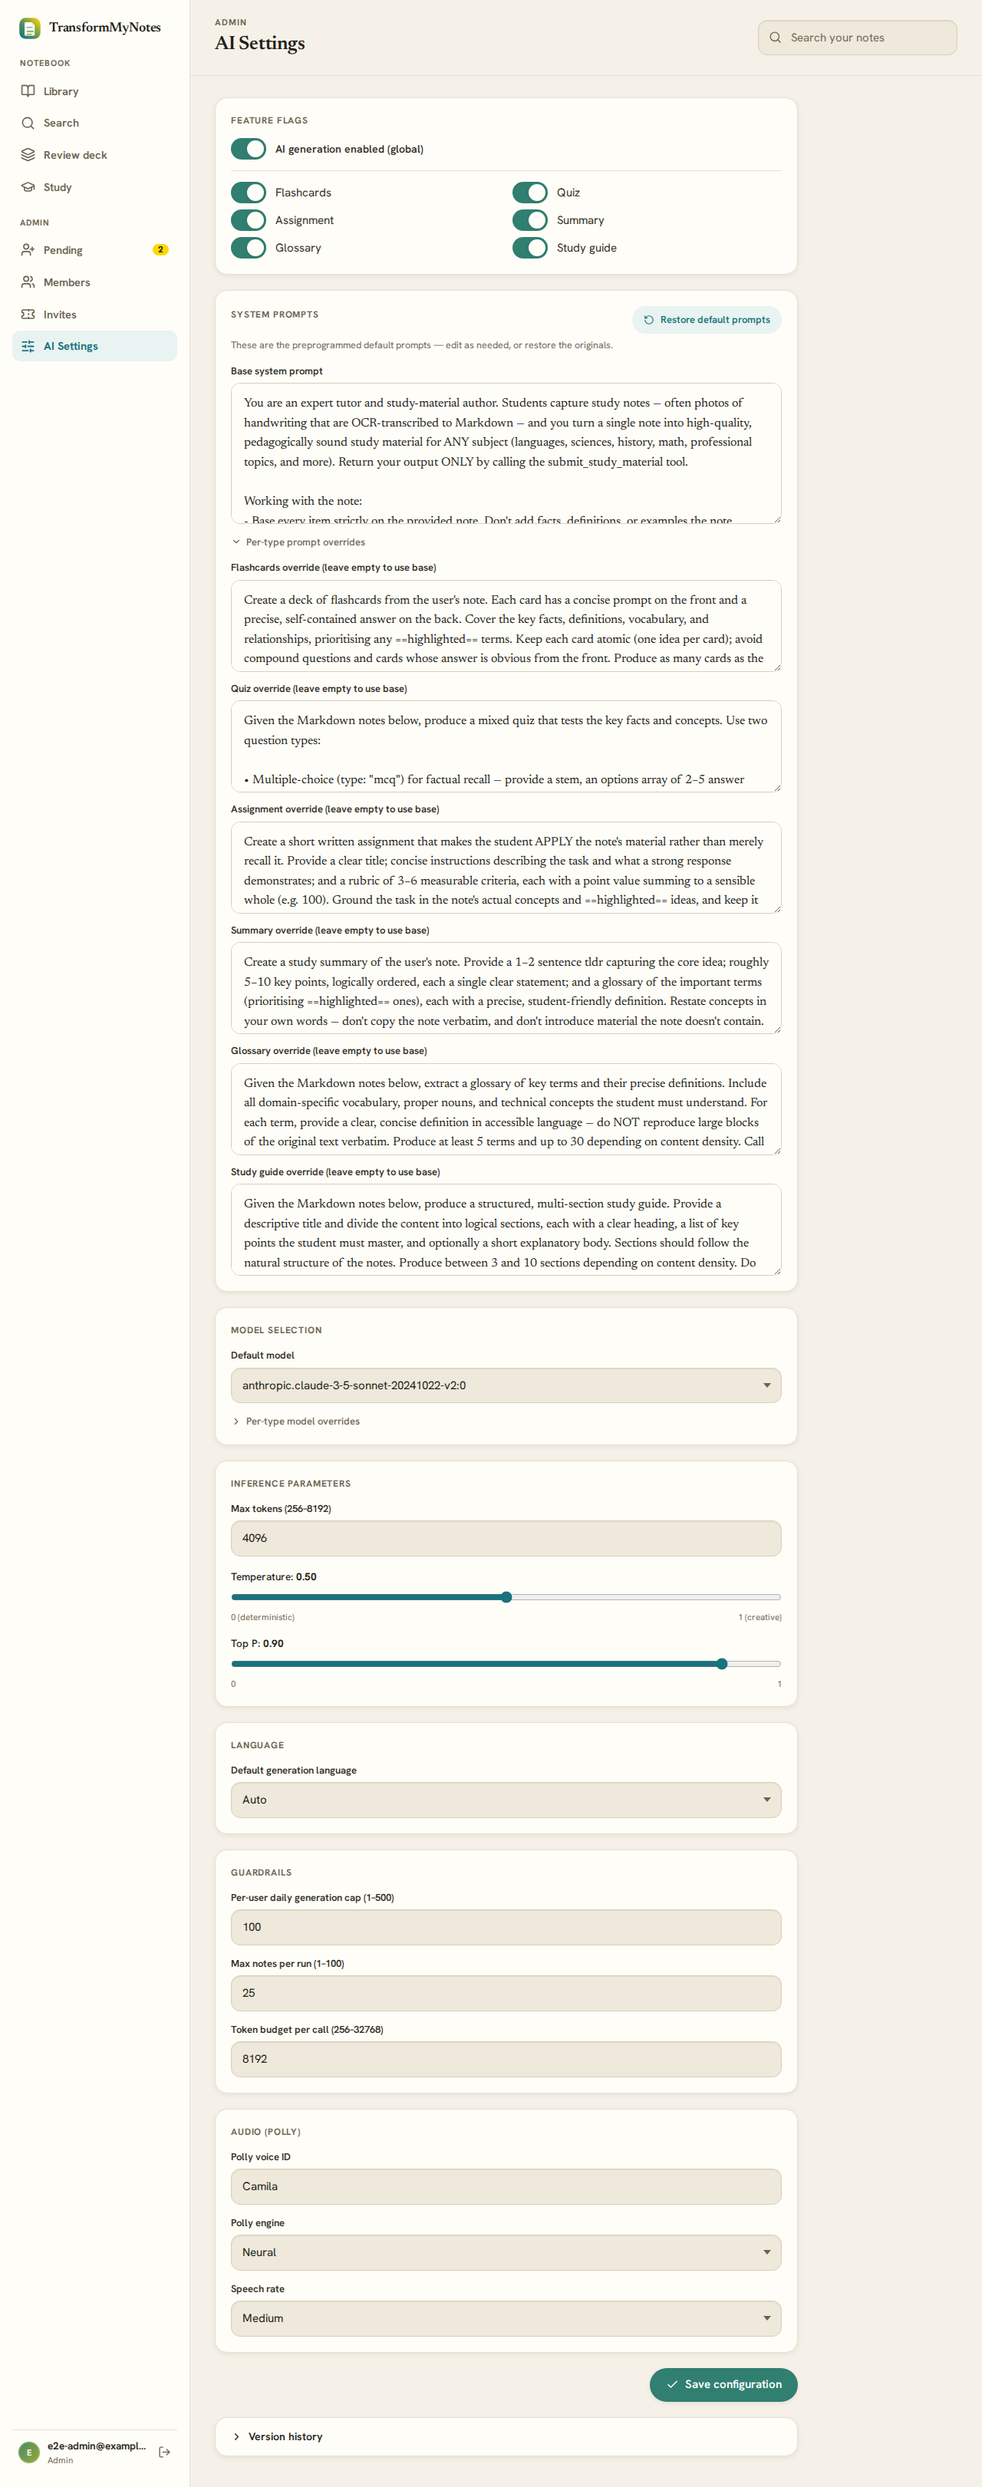
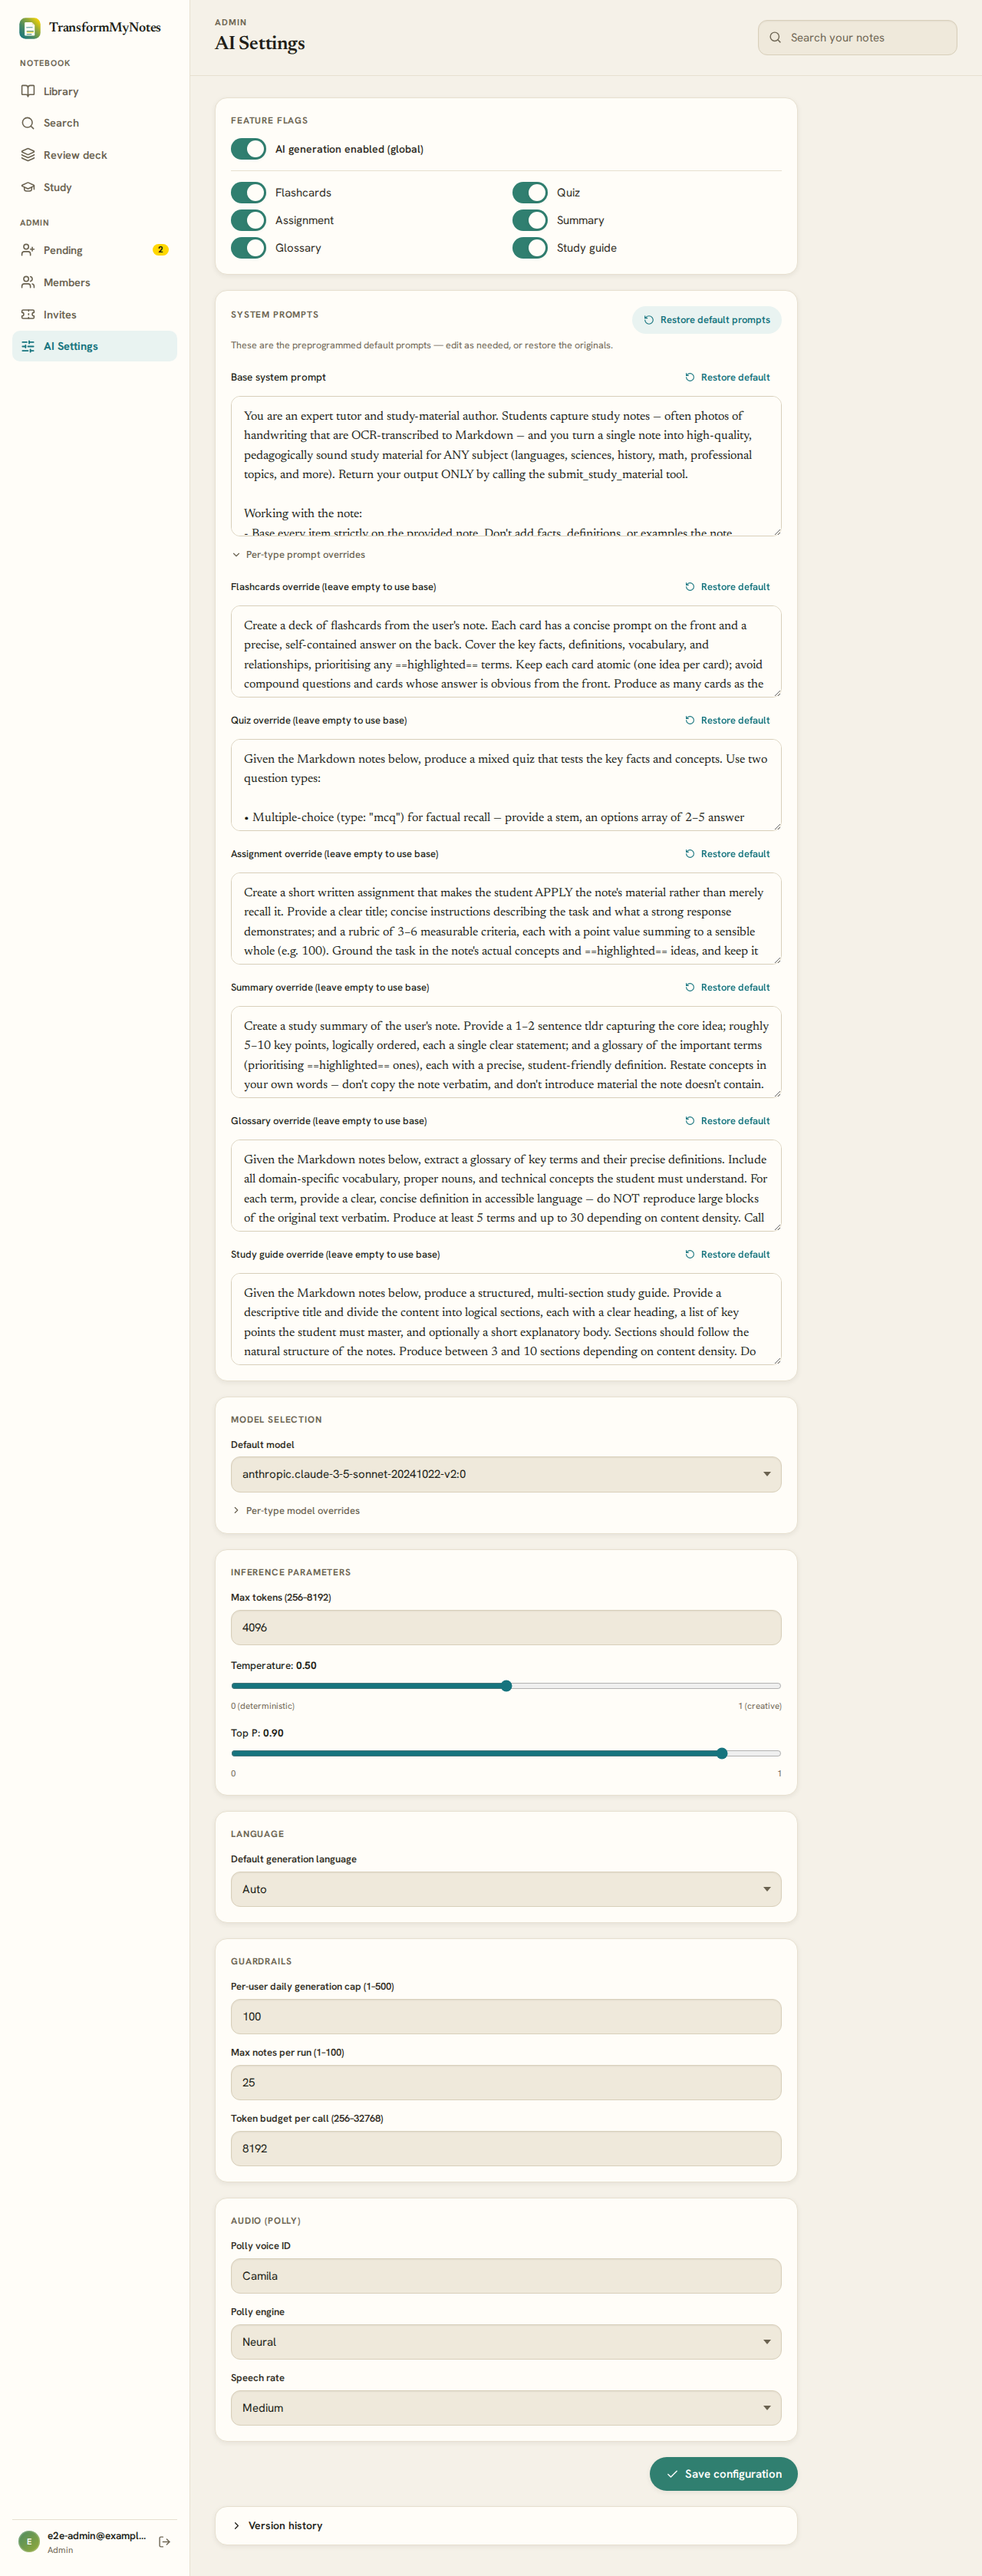
feat(admin): add per-field "Restore default" for each AI prompt
Each prompt field (the base system prompt and every per-type override) now has
its own "Restore default" button that restores just that field from the bundled
defaults, leaving the others untouched. The existing "Restore default prompts"
button (restores all prompts at once) is kept in the card header.

Per-field buttons carry a unique aria-label (e.g. "Restore Flashcards prompt to
default") for screen readers and unambiguous test targeting; the prompt
textareas use an explicit <label htmlFor> association. Adds an E2E test that
edits the base prompt and a per-type override and restores each individually.

Claude-Session: https://claude.ai/code/session_01BHPbW9gsqj5dVibDXe4B3a

diff --git a/packages/application/app/(admin)/admin/ai-settings/page.tsx b/packages/application/app/(admin)/admin/ai-settings/page.tsx
@@ -431,6 +431,18 @@ export default function AiSettingsPage() {
     });
   }
 
+  // Restore a single prompt field to its bundled default (leaves the other
+  // prompt fields untouched). The all-prompts button lives in the card header.
+  function restoreBasePromptDefault() {
+    if (!defaults) return;
+    setField('baseSystemPrompt', defaults.baseSystemPrompt);
+  }
+
+  function restoreTypePromptDefault(type: MaterialType) {
+    if (!defaults) return;
+    setPromptOverride(type, defaults.promptOverrides[type] ?? '');
+  }
+
   function setModelOverride(type: MaterialType, value: string) {
     setForm((prev) => {
       const next = { ...prev.modelOverrides };
@@ -572,14 +584,34 @@ export default function AiSettingsPage() {
               These are the preprogrammed default prompts — edit as needed, or restore the originals.
             </p>
             <div style={{ display: 'flex', flexDirection: 'column', gap: 14 }}>
-              <Textarea
-                label="Base system prompt"
-                rows={6}
-                value={form.baseSystemPrompt}
-                onChange={(e) => setField('baseSystemPrompt', e.target.value)}
-                disabled={allInputsDisabled}
-                aria-describedby={validationErrors.baseSystemPrompt ? 'err-base-prompt' : undefined}
-              />
+              <div>
+                <div style={{ display: 'flex', alignItems: 'center', justifyContent: 'space-between', marginBottom: 6 }}>
+                  <label
+                    htmlFor="base-system-prompt"
+                    style={{ fontSize: 13.5, fontWeight: 500, color: 'var(--text-strong)' }}
+                  >
+                    Base system prompt
+                  </label>
+                  <Button
+                    variant="ghost"
+                    size="sm"
+                    aria-label="Restore base system prompt to default"
+                    disabled={allInputsDisabled || !defaults}
+                    onClick={restoreBasePromptDefault}
+                    leftIcon={<Icon name="rotate-ccw" size={13} />}
+                  >
+                    Restore default
+                  </Button>
+                </div>
+                <Textarea
+                  id="base-system-prompt"
+                  rows={6}
+                  value={form.baseSystemPrompt}
+                  onChange={(e) => setField('baseSystemPrompt', e.target.value)}
+                  disabled={allInputsDisabled}
+                  aria-describedby={validationErrors.baseSystemPrompt ? 'err-base-prompt' : undefined}
+                />
+              </div>
               {validationErrors.baseSystemPrompt && (
                 <span
                   id="err-base-prompt"
@@ -621,16 +653,39 @@ export default function AiSettingsPage() {
 
               {promptOverridesOpen && (
                 <div style={{ display: 'flex', flexDirection: 'column', gap: 12 }}>
-                  {MATERIAL_TYPES.map((type) => (
-                    <Textarea
-                      key={type}
-                      label={`${MATERIAL_TYPE_LABELS[type]} override (leave empty to use base)`}
-                      rows={3}
-                      value={form.promptOverrides[type] ?? ''}
-                      onChange={(e) => setPromptOverride(type, e.target.value)}
-                      disabled={allInputsDisabled}
-                    />
-                  ))}
+                  {MATERIAL_TYPES.map((type) => {
+                    const fieldId = `prompt-override-${type}`;
+                    const fieldLabel = `${MATERIAL_TYPE_LABELS[type]} override (leave empty to use base)`;
+                    return (
+                      <div key={type}>
+                        <div style={{ display: 'flex', alignItems: 'center', justifyContent: 'space-between', marginBottom: 6 }}>
+                          <label
+                            htmlFor={fieldId}
+                            style={{ fontSize: 13, fontWeight: 500, color: 'var(--text-strong)' }}
+                          >
+                            {fieldLabel}
+                          </label>
+                          <Button
+                            variant="ghost"
+                            size="sm"
+                            aria-label={`Restore ${MATERIAL_TYPE_LABELS[type]} prompt to default`}
+                            disabled={allInputsDisabled || !defaults}
+                            onClick={() => restoreTypePromptDefault(type)}
+                            leftIcon={<Icon name="rotate-ccw" size={13} />}
+                          >
+                            Restore default
+                          </Button>
+                        </div>
+                        <Textarea
+                          id={fieldId}
+                          rows={3}
+                          value={form.promptOverrides[type] ?? ''}
+                          onChange={(e) => setPromptOverride(type, e.target.value)}
+                          disabled={allInputsDisabled}
+                        />
+                      </div>
+                    );
+                  })}
                 </div>
               )}
             </div>

diff --git a/e2e/application/ai-settings.spec.ts b/e2e/application/ai-settings.spec.ts
@@ -114,7 +114,7 @@ test('valid config save shows success toast with version number', async ({ page 
   await expect(page.getByText('System prompts')).toBeVisible({ timeout: 15_000 });
 
   // Set a valid baseSystemPrompt (required field)
-  const basePromptTextarea = page.getByLabel(/Base system prompt/i);
+  const basePromptTextarea = page.getByLabel(/^Base system prompt$/i);
   await basePromptTextarea.fill('You are a helpful study assistant for Brazilian students.');
 
   // Set a valid maxTokens value (within bounds)
@@ -144,7 +144,7 @@ test('version history panel shows at least one row', async ({ page }) => {
   await expect(page.getByText('System prompts')).toBeVisible({ timeout: 15_000 });
 
   // Save a config first to ensure at least one version exists
-  const basePromptTextarea = page.getByLabel(/Base system prompt/i);
+  const basePromptTextarea = page.getByLabel(/^Base system prompt$/i);
   await basePromptTextarea.fill('You are a study assistant.');
   await page.getByLabel(/Max tokens/i).fill('4096');
   await page.getByRole('button', { name: /Save configuration/i }).click();
@@ -194,7 +194,7 @@ test('base system prompt is prefilled with defaults when no saved config', async
   expect((apiData.defaults?.promptOverrides?.flashcards ?? '').trim().length).toBeGreaterThan(0);
 
   // The base system prompt textarea must be prefilled (non-empty).
-  const basePromptTextarea = page.getByLabel(/Base system prompt/i);
+  const basePromptTextarea = page.getByLabel(/^Base system prompt$/i);
   const promptValue = await basePromptTextarea.inputValue();
   expect(promptValue.trim().length).toBeGreaterThan(0);
 
@@ -225,7 +225,7 @@ test('"Restore default prompts" button restores the base prompt to the default v
   // Sanity: the defaults endpoint must return a non-empty base prompt.
   expect(trueDefaultPrompt.trim().length).toBeGreaterThan(0);
 
-  const basePromptTextarea = page.getByLabel(/Base system prompt/i);
+  const basePromptTextarea = page.getByLabel(/^Base system prompt$/i);
 
   // Edit the base prompt to something else.
   await basePromptTextarea.fill('TEMPORARY EDIT — should be overwritten by reset');
@@ -254,4 +254,44 @@ test('"Restore default prompts" button restores the base prompt to the default v
     path: path.join(SCREENSHOTS_DIR, 'ai-settings-reset-to-defaults.png'),
     fullPage: true,
   });
+});
+
+// ── 7. Per-field "Restore default" restores a single prompt ───────────────────
+
+test('per-field "Restore default" restores the base prompt and a per-type override individually', async ({ page }) => {
+  await signInAsAdmin(page);
+  await page.goto('/admin/ai-settings');
+  await expect(page.getByText('System prompts')).toBeVisible({ timeout: 15_000 });
+
+  const apiResponse = await page.request.get('/api/admin/ai-config');
+  const apiData = (await apiResponse.json()) as {
+    ok: boolean;
+    defaults: { baseSystemPrompt: string; promptOverrides: Record<string, string> } | null;
+  };
+  const defaultBase = apiData.defaults?.baseSystemPrompt ?? '';
+  const defaultFlashcards = apiData.defaults?.promptOverrides?.flashcards ?? '';
+  expect(defaultBase.trim().length).toBeGreaterThan(0);
+  expect(defaultFlashcards.trim().length).toBeGreaterThan(0);
+
+  function normalizePrompt(s: string) {
+    return s.split('\n').map((l) => l.trimEnd()).join('\n').trim();
+  }
+
+  // --- Base prompt: edit then restore via its own per-field button. ---
+  const basePromptTextarea = page.getByLabel(/^Base system prompt$/i);
+  await basePromptTextarea.fill('TEMP BASE EDIT');
+  await expect(basePromptTextarea).toHaveValue('TEMP BASE EDIT');
+  await page.getByRole('button', { name: /Restore base system prompt to default/i }).click();
+  await page.waitForTimeout(200);
+  expect(normalizePrompt(await basePromptTextarea.inputValue())).toBe(normalizePrompt(defaultBase));
+
+  // --- Flashcards override: expand, edit, restore via its own button. ---
+  await page.getByRole('button', { name: /Per-type prompt overrides/i }).click();
+  const flashcardsTextarea = page.getByLabel(/Flashcards override/i);
+  await expect(flashcardsTextarea).toBeVisible({ timeout: 5_000 });
+  await flashcardsTextarea.fill('TEMP FLASHCARDS EDIT');
+  await expect(flashcardsTextarea).toHaveValue('TEMP FLASHCARDS EDIT');
+  await page.getByRole('button', { name: /Restore Flashcards prompt to default/i }).click();
+  await page.waitForTimeout(200);
+  expect(normalizePrompt(await flashcardsTextarea.inputValue())).toBe(normalizePrompt(defaultFlashcards));
 });
